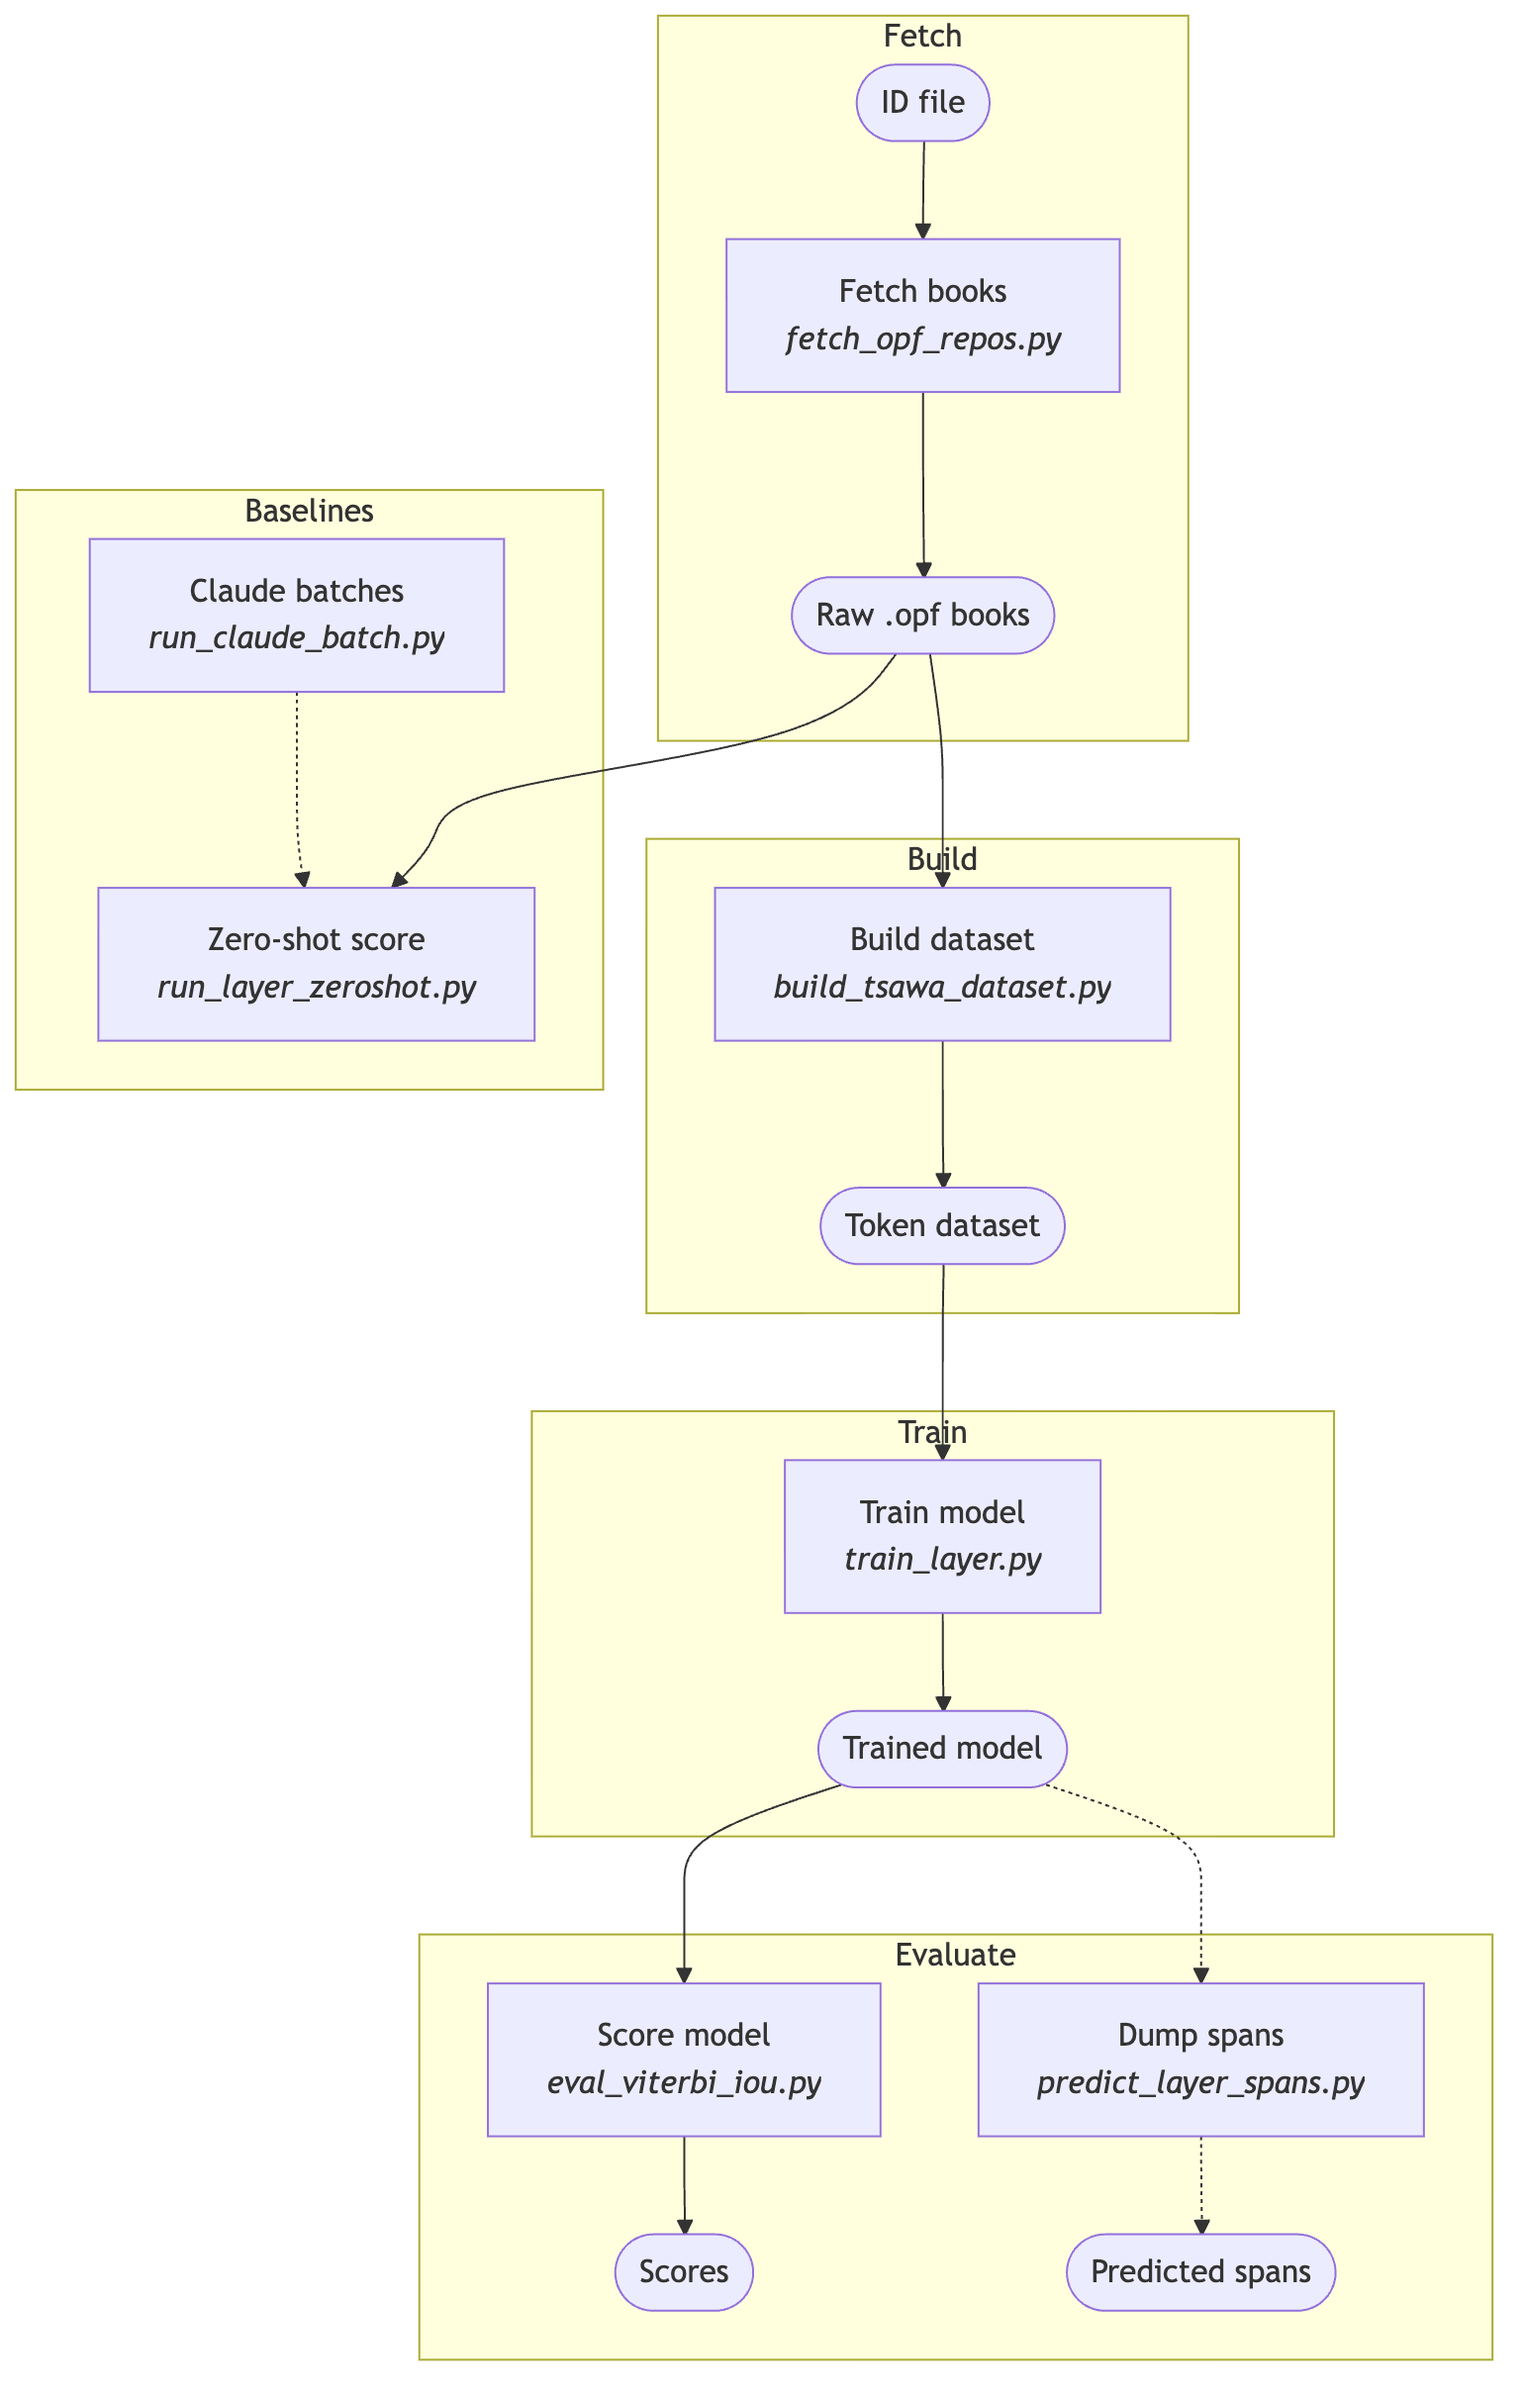
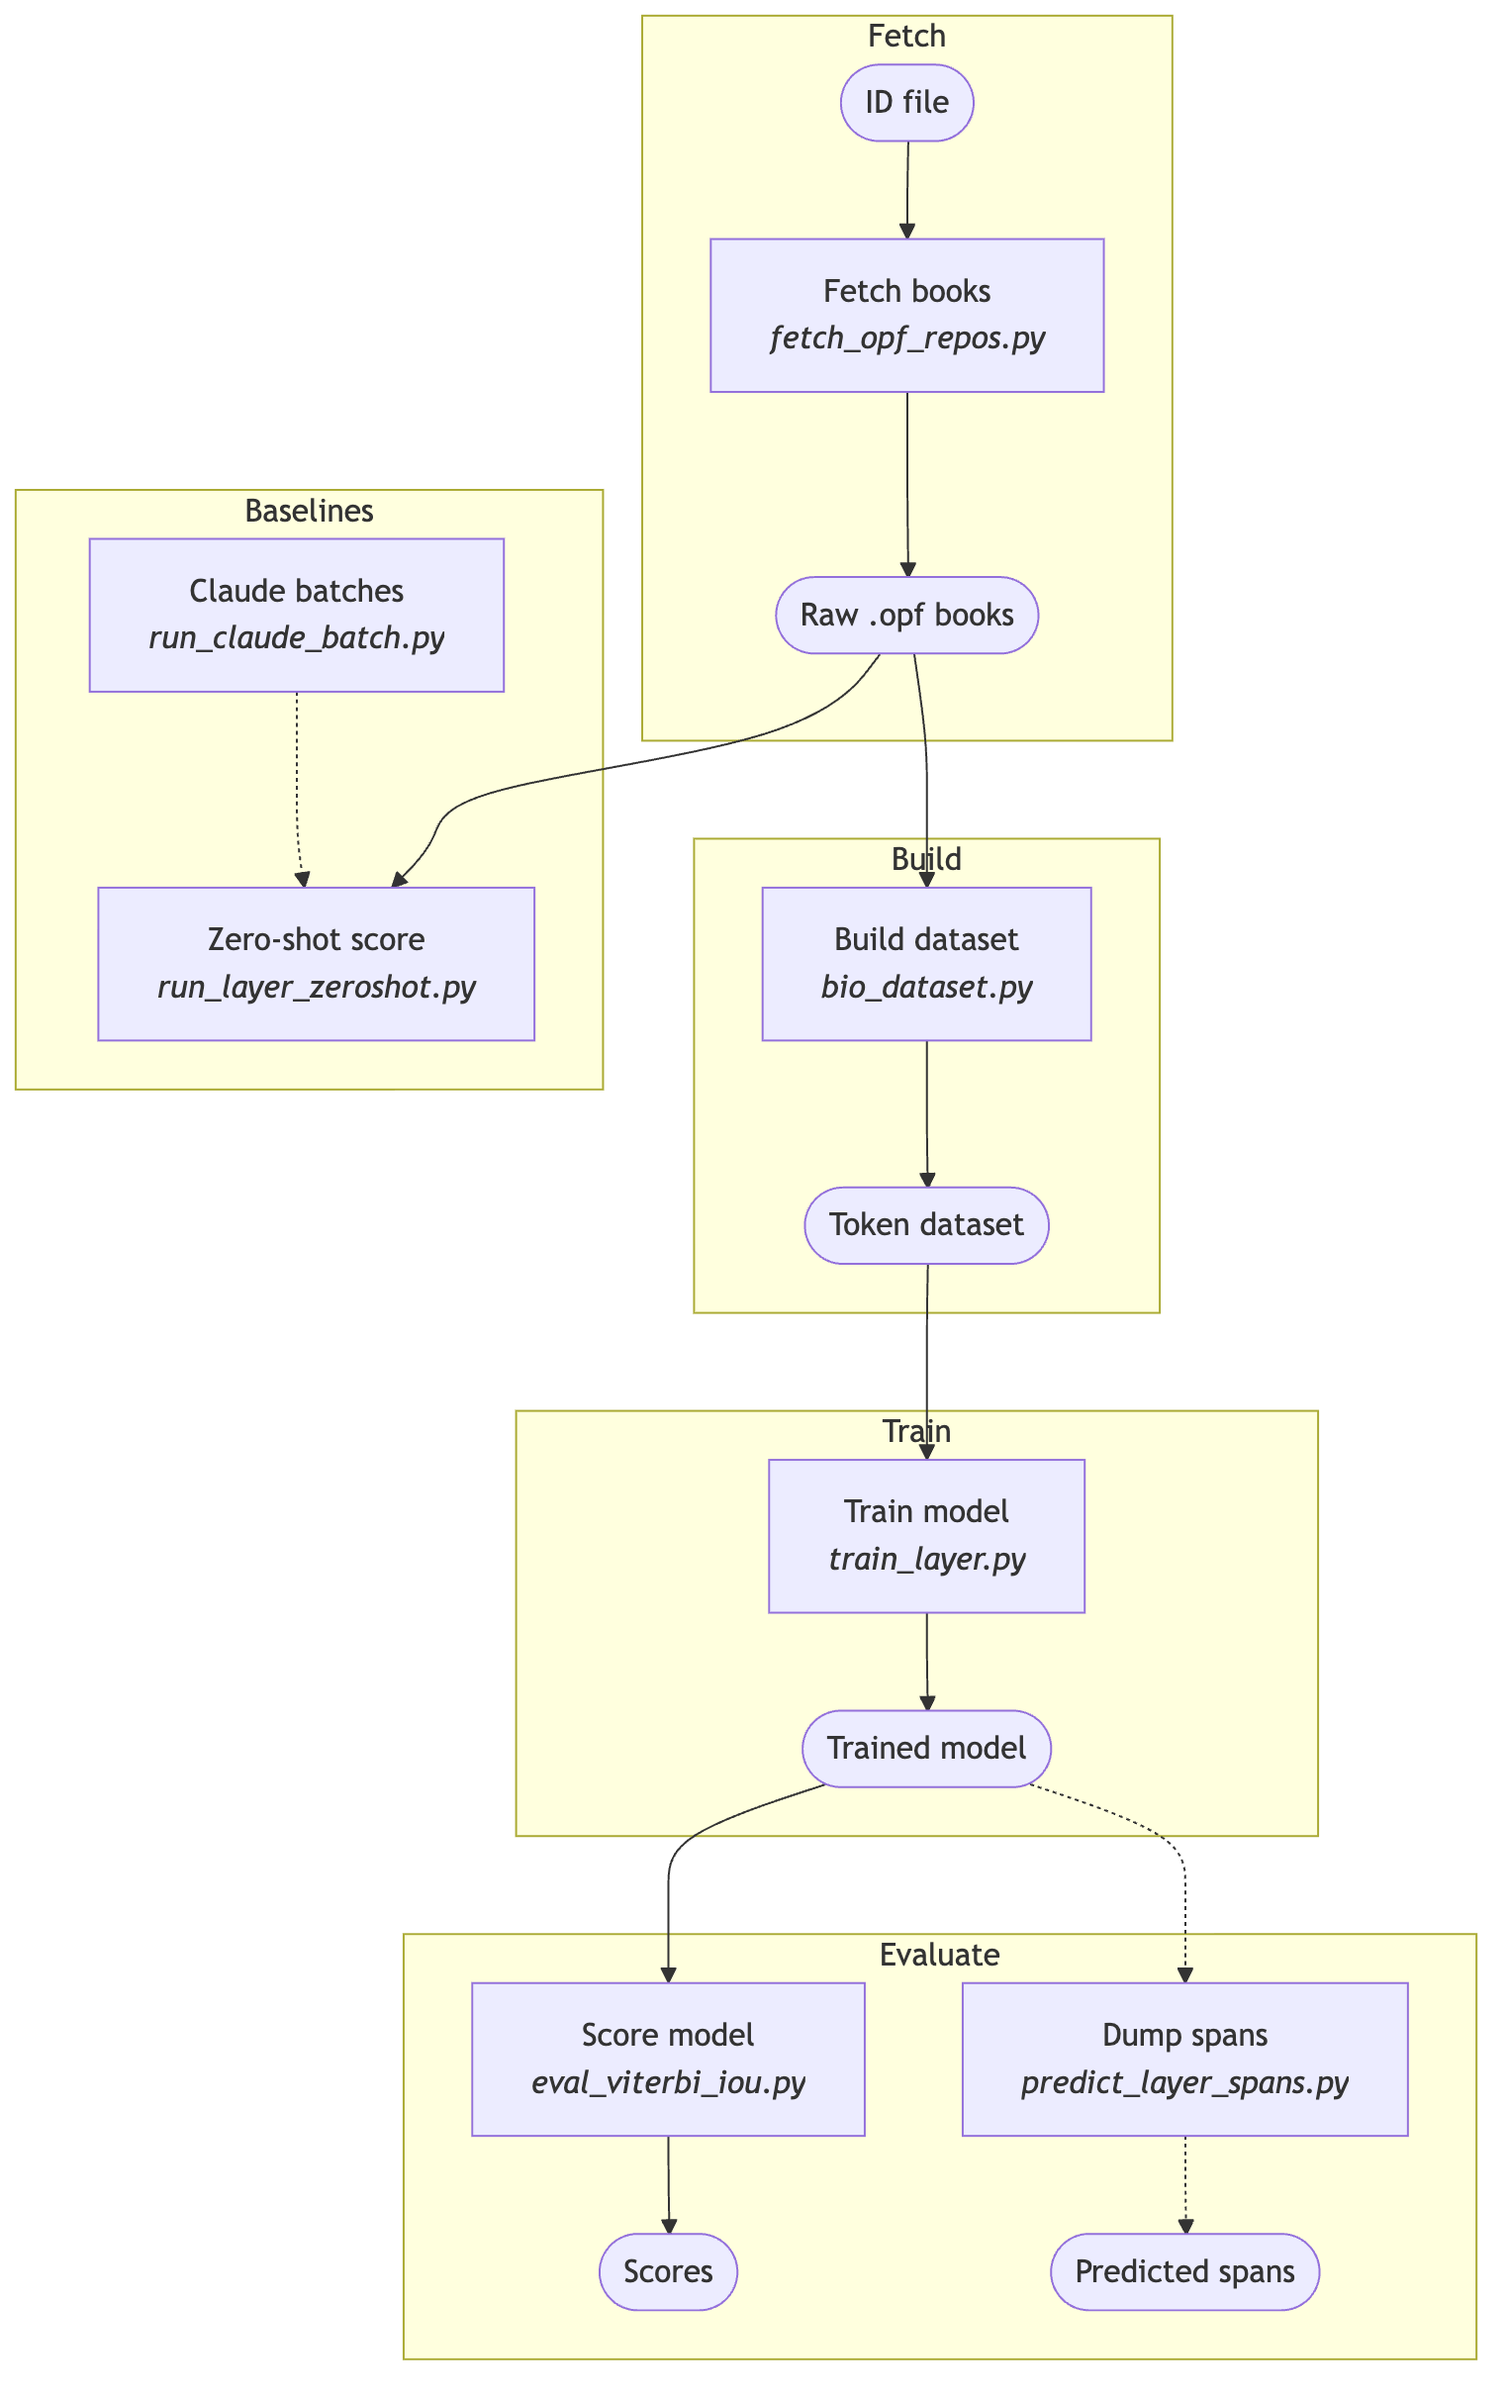
Remove version numbers from script names
build_tsawa_v10_dataset -> build_tsawa_dataset, push_tsawa_v11_dataset ->
push_tsawa_dataset, prepare_tsawa_v6 -> prepare_tsawa_split,
audit_tsawa_before_v6 -> audit_tsawa_labels, convert_tsawa_classical_v3 ->
convert_tsawa_classical, build_ta_v3_addon -> build_ta_addon,
run_ta_gepa3 -> run_ta_gepa. The shared module common/build_tsawa_dataset
is now common/bio_dataset (it was imported by every layer and would clash
with the Tsawa builder). References and charts updated.

diff --git a/title_author/src/export_ta_parquet.py b/title_author/src/export_ta_parquet.py
@@ -9,7 +9,7 @@ Spans are character offsets inside text_head / text_tail (see title_region / aut
 
     python title_author/src/export_ta_parquet.py V3_CLEAN_DIR [--base gold_dataset_all] [--v3-works gold_dataset_all_v3_works.csv] [--out-dir DIR]
 
-Reads: V3_CLEAN_DIR, title_author/data/processed/<base>/, <v3-works> (the CSV written by build_ta_v3_addon.py), bdrc_metadata.csv, and the annotator
+Reads: V3_CLEAN_DIR, title_author/data/processed/<base>/, <v3-works> (the CSV written by build_ta_addon.py), bdrc_metadata.csv, and the annotator
 spans through ta_load_spans (not in this repo, so the script cannot run from a fresh clone).
 Writes: <out-dir>/{train,validation,test}.parquet and works_index.csv (default out-dir: title_author/data/processed/parquet_export).
 Columns include text_head, text_tail, title_region, author_region and the character offsets of the spans.
@@ -27,7 +27,7 @@ from datasets import load_from_disk  # noqa: E402
 
 import argparse
 ap = argparse.ArgumentParser(); ap.add_argument("v3_dir", type=Path, help="folder of the BDRC v3 clean texts"); ap.add_argument("--base", default="gold_dataset_all", help="gold dataset folder under data/processed")
-ap.add_argument("--v3-works", default="gold_dataset_all_v3_works.csv", help="works CSV written by build_ta_v3_addon.py"); ap.add_argument("--out-dir", type=Path, default=None, help="output folder (default: data/processed/parquet_export)")
+ap.add_argument("--v3-works", default="gold_dataset_all_v3_works.csv", help="works CSV written by build_ta_addon.py"); ap.add_argument("--out-dir", type=Path, default=None, help="output folder (default: data/processed/parquet_export)")
 args = ap.parse_args()
 v3_dir = args.v3_dir; out_dir = args.out_dir or OUT / "parquet_export"
 out_dir.mkdir(parents=True, exist_ok=True)

diff --git a/title_author/src/build_ta_addon.py b/title_author/src/build_ta_addon.py
@@ -5,7 +5,7 @@ v3 work kept if: TEXT, typed title and author both found exactly once in the tex
 same rule as fill_spans_auto.py), not a near-duplicate of any gold work (all splits), one copy per duplicate cluster.
 validation and test are copied unchanged from gold_dataset_all. source column = "v3_auto".
 
-    python title_author/src/build_ta_v3_addon.py CLEAN_DIR [--base gold_dataset_all] [--single] [--all-groups] [--k 3000]
+    python title_author/src/build_ta_addon.py CLEAN_DIR [--base gold_dataset_all] [--single] [--all-groups] [--k 3000]
         [--max-length 8192] [--stride 5120] [--tokenizer DIR] [--out-dir DIR]
 
 Reads: CLEAN_DIR (the BDRC v3 clean texts), title_author/data/processed/<base>/ (the gold DatasetDict), the annotator spans through
@@ -19,7 +19,7 @@ from pathlib import Path
 
 ROOT = Path(__file__).resolve().parents[2]
 sys.path.insert(0, str(ROOT / "common")); sys.path.insert(0, str(ROOT / "title_author/src"))
-from build_tsawa_dataset import IGNORE_LABEL, label_tokens, pack_window, sliding_windows, special_token_ids  # noqa: E402
+from bio_dataset import IGNORE_LABEL, label_tokens, pack_window, sliding_windows, special_token_ids  # noqa: E402
 from build_ta_gold_dataset import LABEL2ID, ID2LABEL, OUT, norm, regions, resolve_overlap, skip_leading_ws, strip_title_marks, strip_title_formula, tib_letters  # noqa: E402
 from ta_load_spans import GOLD, load  # noqa: E402
 

diff --git a/title_author/src/build_ta_gold_dataset.py b/title_author/src/build_ta_gold_dataset.py
@@ -2,7 +2,7 @@
 """Build the TITLE/AUTHOR BIO DatasetDict from the annotator-span JSONs (no training).
 
 Per work (TEXT segment): keep head [0,K) and tail [L-K,L) of the segment text (whole text if L<=2K).
-Spans come from the provided offsets only. Labels: token-start rule via common/build_tsawa_dataset.label_tokens.
+Spans come from the provided offsets only. Labels: token-start rule via common/bio_dataset.label_tokens.
 Split by group of collection ids (ids linked by shared text / shared title+author are one group).
 
     python title_author/src/build_ta_gold_dataset.py [--all] [--single] [--clean] [--crop chars|paras] [--k 3000]
@@ -21,7 +21,7 @@ from pathlib import Path
 
 ROOT = Path(__file__).resolve().parents[2]
 sys.path.insert(0, str(ROOT / "common")); sys.path.insert(0, str(ROOT / "title_author/src"))
-from build_tsawa_dataset import IGNORE_LABEL, label_tokens, pack_window, sliding_windows, special_token_ids  # noqa: E402
+from bio_dataset import IGNORE_LABEL, label_tokens, pack_window, sliding_windows, special_token_ids  # noqa: E402
 from ta_load_spans import GOLD, TRAIN_SOURCES, load  # noqa: E402
 
 LABEL2ID = {"O": 0, "B-TITLE": 1, "I-TITLE": 2, "B-AUTHOR": 3, "I-AUTHOR": 4}

diff --git a/title_author/src/run_ta_gepa.py b/title_author/src/run_ta_gepa.py
@@ -2,9 +2,9 @@
 """GEPA (DSPy 3) on the title/author prompt. The Gemini key comes only from the environment (GEMINI_API_KEY).
 Run with ~/dspy-env/bin/python.
 
-    run_ta_gepa3.py run START_PROMPT.md N_TRAIN N_VAL BUDGET   # optimise; writes title_author/data/gemini_prompts/$OUT_NAME
-    run_ta_gepa3.py eval PROMPT.md SPLIT N                      # score a prompt with the same settings (no optimisation)
-    run_ta_gepa3.py demo RUN_FOLDER N                           # print the GEPA feedback for N author mistakes of an existing validation run (no API call)
+    run_ta_gepa.py run START_PROMPT.md N_TRAIN N_VAL BUDGET   # optimise; writes title_author/data/gemini_prompts/$OUT_NAME
+    run_ta_gepa.py eval PROMPT.md SPLIT N                      # score a prompt with the same settings (no optimisation)
+    run_ta_gepa.py demo RUN_FOLDER N                           # print the GEPA feedback for N author mistakes of an existing validation run (no API call)
 
 Settings (environment variables):
   BATCH=4 CROP=2000     BATCH works per call; CROP keeps the first and last CROP characters

diff --git a/tsawa/src/prepare_tsawa_split.py b/tsawa/src/prepare_tsawa_split.py
@@ -2,7 +2,7 @@
 """Prepare split_v3 + ignore-span list for tsawa dataset v6. Does not rewrite
 existing sidecars, splits, datasets, or YAML.
 
-Run from the repo root, no flags: ``python tsawa/src/prepare_tsawa_v6.py``.
+Run from the repo root, no flags: ``python tsawa/src/prepare_tsawa_split.py``.
 Split: seed 123, targets 76/12/12 by windows, pechas with fewer than 10 merged spans
 dropped, must-link groups keep reprints of one text together.
 Reads: tsawa/data/processed/tsawa_spans_merged.csv, split_v2_frozen.csv,
@@ -291,7 +291,7 @@ def main() -> int:
     header = [
         "# tsawa layer-detection document split v3 — FROZEN",
         f"# generated: {date.today().isoformat()}",
-        "# generator: tsawa/src/prepare_tsawa_v6.py (greedy multi-objective, same as split_v2)",
+        "# generator: tsawa/src/prepare_tsawa_split.py (greedy multi-objective, same as split_v2)",
         f"# seed: {SEED}",
         "# targets: 80/10/10 by WINDOW count (8192 / 5120)",
         "# stratified on: batch, n_windows, tsawa density, pct_short",

diff --git a/tsawa/src/build_tsawa_dataset.py b/tsawa/src/build_tsawa_dataset.py
@@ -3,7 +3,7 @@
 plus SEPARATE classical_validation / classical_test eval sets (whole-commentary holdout, see prepare_tsawa_classical_split.py).
 Classical docs here are the blank-line-collapsed copies (clean_tsawa_classical_blank_lines.py).
 
-Reuses the labelling / windowing functions of common/build_tsawa_dataset.py (same BIO rule,
+Reuses the labelling / windowing functions of common/bio_dataset.py (same BIO rule,
 same 8192/5120 windows, same mmBERT tokenizer) but does not run its Phase-2 audit totals
 check, which cannot hold once the classical docs are added. No training.
 
@@ -33,7 +33,7 @@ from transformers import AutoTokenizer
 
 ROOT = Path(__file__).resolve().parents[2]
 sys.path.insert(0, str(ROOT / "common"))
-import build_tsawa_dataset as B  # noqa: E402
+import bio_dataset as B  # noqa: E402
 
 P = ROOT / "tsawa/data/processed"
 SPLIT = P / "split_v3_frozen_excl_set_aside.csv"

diff --git a/tsawa/src/checks/audit_tsawa_labels.py b/tsawa/src/checks/audit_tsawa_labels.py
@@ -1,6 +1,6 @@
 #!/usr/bin/env python3
 """
-audit_tsawa_before_v6.py — four data checks before building v6. CPU only.
+audit_tsawa_labels.py — four data checks before building v6. CPU only.
 
   1. UNDER-LABELLED BOOKS  lots of verse outside tsawa, very little tsawa.
                            Unmarked root verse teaches "verse = not tsawa".
@@ -10,7 +10,7 @@ audit_tsawa_before_v6.py — four data checks before building v6. CPU only.
   4. LEAKAGE               val/test tsawa text that appears verbatim in a TRAIN
                            book. Inflates scores through memorisation.
 
-Usage:  python audit_tsawa_before_v6.py > scratch/tsawa/analysis/audit_v6.txt
+Usage:  python audit_tsawa_labels.py > scratch/tsawa/analysis/audit_v6.txt
 """
 
 import glob

diff --git a/tsawa/audit/check_tsawa_offset_correction.py b/tsawa/audit/check_tsawa_offset_correction.py
@@ -60,7 +60,7 @@ pd.DataFrame([dict(pecha_id=p, old_start=o[0], old_end=o[1], new_start=n[0], new
 # For these test books nothing is ignored (v6_ignore_spans.csv has no test books), so scored index = book token - token_start.
 import sys
 sys.path.insert(0, "common")
-from build_tsawa_dataset import label_tokens           # the dataset builder's own labelling rule
+from bio_dataset import label_tokens           # the dataset builder's own labelling rule
 from transformers import AutoTokenizer
 tok = AutoTokenizer.from_pretrained("jhu-clsp/mmBERT-base", use_fast=True)
 ign = pd.read_csv("tsawa/data/processed/v6_ignore_spans.csv")

diff --git a/tsawa/src/patch_tsawa_validation.py b/tsawa/src/patch_tsawa_validation.py
@@ -29,8 +29,8 @@ from transformers import AutoTokenizer
 ROOT = Path(__file__).resolve().parents[2]
 sys.path.insert(0, str(ROOT / "common"))
 sys.path.insert(0, str(Path(__file__).resolve().parent))
-import build_tsawa_dataset as B  # noqa: E402
-from build_tsawa_v10_dataset import SCHEMA, read_ignore, read_spans  # noqa: E402
+import bio_dataset as B  # noqa: E402
+from build_tsawa_dataset import SCHEMA, read_ignore, read_spans  # noqa: E402
 
 P = ROOT / "tsawa/data/processed"
 V10, V11, V11N = P / "tsawa_dataset_v10", P / "tsawa_dataset_v11", P / "tsawa_dataset_v11_noclassical"

diff --git a/detect/infer.py b/detect/infer.py
@@ -7,7 +7,7 @@ writes predictions/<book_id>.json per book.
 
 Windowing (.windows) and BIO/BIOE Viterbi decoding + confidence (.decode)
 are self-contained, dependency-light copies of the logic in this repo's
-common/build_tsawa_dataset.py and common/eval_viterbi_iou.py -- imported as
+common/bio_dataset.py and common/eval_viterbi_iou.py -- imported as
 package-relative modules here (not via a sys.path hack to a sibling
 directory) so this package is actually importable once pip-installed
 (site-packages only contains the package's own files, not this repo's

diff --git a/tsawa/src/snap_tsawa_quotation_boundaries.py b/tsawa/src/snap_tsawa_quotation_boundaries.py
@@ -16,7 +16,7 @@ After snapping, quote-quote overlaps within a document are resolved by
 trimming the later span's start to the earlier span's end (they are the same
 class, so a merge-like trim loses nothing); spans left empty are marked
 ``dropped``. Tsawa precedence is NOT applied here — that happens at label
-time in ``build_tsawa_dataset.py``, which counts the suppressed tokens.
+time in ``bio_dataset.py``, which counts the suppressed tokens.
 
 Usage:
     python tsawa/src/snap_tsawa_quotation_boundaries.py \\

diff --git a/title_author/src/clean_ta_underscores.py b/title_author/src/clean_ta_underscores.py
@@ -17,7 +17,7 @@ from transformers import AutoTokenizer
 
 ROOT = Path(__file__).resolve().parents[2]
 sys.path.insert(0, str(ROOT / "common"))
-from build_tsawa_dataset import IGNORE_LABEL, label_tokens, pack_window, sliding_windows, special_token_ids  # noqa: E402
+from bio_dataset import IGNORE_LABEL, label_tokens, pack_window, sliding_windows, special_token_ids  # noqa: E402
 
 LABEL2ID = {"O": 0, "B-TITLE": 1, "I-TITLE": 2, "B-AUTHOR": 3, "I-AUTHOR": 4}   # same as build_ta_gold_dataset.py
 
